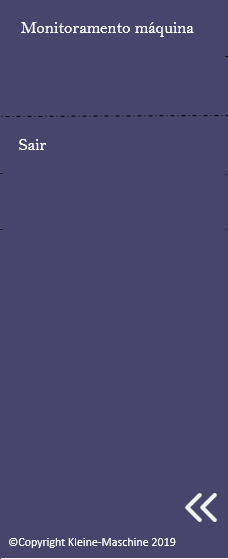
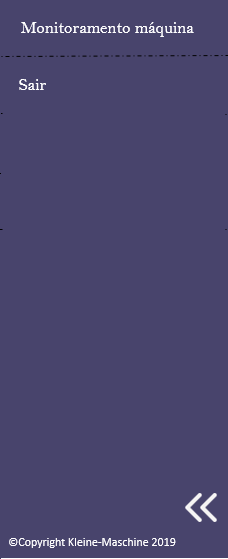
Terminou uhuuuuul é isso ai - Barbara

Changed region(s): [[0.0921, 0.1216, 0.1842, 0.1825], [0.0614, 0.2433, 0.2149, 0.2737]]

diff --git a/KleineMaschineSystem/Kleine_Maschine_Systen/src/main/java/view/Maquina.java b/KleineMaschineSystem/Kleine_Maschine_Systen/src/main/java/view/Maquina.java
@@ -86,26 +86,26 @@ public class Maquina extends JFrame {
 		esconder.setBounds(170,510,60, 80);
 		pnlFundo.add(esconder);
 		
-		
 		final JLabel btnCobrir = new JLabel("");
-		//set bounds (DISTANCIA DA DIREITA PRA ESQUERDA, DISTANCIA DE CIMA PRA BAIXO,tamanho da imagem, tamanho da imagem
+		// set bounds (DISTANCIA DA DIREITA PRA ESQUERDA, DISTANCIA DE CIMA PRA
+		// BAIXO,tamanho da imagem, tamanho da imagem
 
-		btnCobrir.setBounds(10, 4, 60, 40);	
+		btnCobrir.setBounds(10, 4, 60, 40);
 		pnlFundo.add(btnCobrir);
 		btnCobrir.setVisible(false);
-		btnCobrir.setIcon (new ImageIcon(getClass().getResource("/img/fundo - Disco.png")));
-		JLabel btnFechar = new JLabel("");
-		//set bounds (DISTANCIA DA DIREITA PRA ESQUERDA, DISTANCIA DE CIMA PRA BAIXO,tamanho da imagem, tamanho da imagem
-		btnFechar.setBounds(965, 5, 40, 40);	
-		pnlFundo.add(btnFechar);
-		
-	
-		
-		final JLabel menu = new JLabel("");
-		//set bounds (DISTANCIA DA DIREITA PRA ESQUERDA, DISTANCIA DE CIMA PRA BAIXO,tamanho da imagem, tamanho da imagem
-		menu.setBounds(2, 49, 233, 560);	
-		menu.setIcon(new ImageIcon(getClass().getResource("/img/MenuMaximizado.png")));
+		btnCobrir.setIcon(new ImageIcon(getClass().getResource("/img/002-list.png")));
                 
+		JLabel btnFechar = new JLabel("");
+		// set bounds (DISTANCIA DA DIREITA PRA ESQUERDA, DISTANCIA DE CIMA PRA
+		// BAIXO,tamanho da imagem, tamanho da imagem
+		btnFechar.setBounds(965, 5, 40, 40);
+		pnlFundo.add(btnFechar);
+
+		final JLabel menu = new JLabel("");
+		// set bounds (DISTANCIA DA DIREITA PRA ESQUERDA, DISTANCIA DE CIMA PRA
+		// BAIXO,tamanho da imagem, tamanho da imagem
+		menu.setBounds(2, 49, 233, 560);
+		menu. setIcon(new ImageIcon(getClass().getResource("/img/MenuMaximizado.png")));
 		menu.setVisible(false);
 		pnlFundo.add(menu);
 		
@@ -131,7 +131,7 @@ public class Maquina extends JFrame {
 		
 		final JLabel btnSair = new JLabel("");
 		btnSair.setVisible(true);
-		btnSair.setBounds(1, 120, 225, 52);
+		btnSair.setBounds(2, 60, 225, 52);
 		//btnSair.setBounds(1, 235, 225, 52);
 		menu.add(btnSair);
 		
@@ -145,8 +145,8 @@ public class Maquina extends JFrame {
 		btnFechar.addMouseListener((MouseListener)new MouseAdapter() {
 			
 			public void mouseClicked(MouseEvent e) {
-				Maquina relat = null;
-                                relat = new Maquina(); // TODO Auto-generated catch block
+				Login relat = null;
+                                relat = new Login(); // TODO Auto-generated catch block
 				relat.setUndecorated(true);
 				relat.setVisible(true);
 				dispose();
@@ -182,16 +182,16 @@ public class Maquina extends JFrame {
 						
 					}
 				});
-				btnMonitoramentoTransacoes.addMouseListener((MouseListener)new MouseAdapter() {
+				//btnMonitoramentoTransacoes.addMouseListener((MouseListener)new MouseAdapter() {
 					
-					public void mouseClicked(MouseEvent e) {
-						Transacoes trans = new Transacoes();
-						trans.setUndecorated(true);
-						trans.setVisible(true);
-						dispose();
+				//	public void mouseClicked(MouseEvent e) {
+				//		Transacoes trans = new Transacoes();
+				//		trans.setUndecorated(true);
+				//		trans.setVisible(true);
+				//		dispose();
 						
-					}
-				});
+				//	}
+			//	});
 				//btnRelatorio.addMouseListener((MouseListener)new MouseAdapter() {
 				
 				//public void mouseClicked(MouseEvent e) {
@@ -273,7 +273,13 @@ public class Maquina extends JFrame {
 							JOptionPane.YES_NO_OPTION, JOptionPane.QUESTION_MESSAGE, null,
 							options, options[0]);
 					if (i == JOptionPane.YES_OPTION) {
-						System.exit(0);
+                                            Login relat = null;
+                                relat = new Login(); // TODO Auto-generated catch block
+				relat.setUndecorated(true);
+				relat.setVisible(true);
+				dispose();
+
+						
 					}
 					
 	

diff --git a/KleineMaschineSystem/Kleine_Maschine_Systen/src/main/java/view/Disco.java b/KleineMaschineSystem/Kleine_Maschine_Systen/src/main/java/view/Disco.java
@@ -169,7 +169,7 @@ public class Disco extends JFrame {
 		
 		final JLabel btnSair = new JLabel("");
 		btnSair.setVisible(true);
-		btnSair.setBounds(1, 120, 225, 52);
+		btnSair.setBounds(2, 60, 225, 52);
 		//btnSair.setBounds(1, 235, 225, 52);
 		menu.add(btnSair);
 		
@@ -218,16 +218,16 @@ btnFechar.addMouseListener((MouseListener)new MouseAdapter() {
 						
 					}
 				});
-				btnMonitoramentoTransacoes.addMouseListener((MouseListener)new MouseAdapter() {
+			//btnMonitoramentoTransacoes.addMouseListener((MouseListener)new MouseAdapter() {
 					
-					public void mouseClicked(MouseEvent e) {
-						Transacoes trans = new Transacoes();
-						trans.setUndecorated(true);
-						trans.setVisible(true);
-						dispose();
+				//	public void mouseClicked(MouseEvent e) {
+				//		Transacoes trans = new Transacoes();
+				//		trans.setUndecorated(true);
+				//		trans.setVisible(true);
+				//		dispose();
 						
-					}
-				});
+				//	}
+			//	});
 				//btnRelatorio.addMouseListener((MouseListener)new MouseAdapter() {
 				
 				//public void mouseClicked(MouseEvent e) {

diff --git a/KleineMaschineSystem/Kleine_Maschine_Systen/src/main/java/view/Memoria.java b/KleineMaschineSystem/Kleine_Maschine_Systen/src/main/java/view/Memoria.java
@@ -173,7 +173,7 @@ public class Memoria extends JFrame {
 
 		final JLabel btnSair = new JLabel("");
 		btnSair.setVisible(true);
-		btnSair.setBounds(1, 120, 225, 52);
+		btnSair.setBounds(2, 60, 225, 52);
 		//btnSair.setBounds(1, 235, 225, 52);
 		menu.add(btnSair);
 
@@ -221,16 +221,16 @@ public class Memoria extends JFrame {
 
 			}
 		});
-		btnMonitoramentoTransacoes.addMouseListener((MouseListener) new MouseAdapter() {
-
-			public void mouseClicked(MouseEvent e) {
-				Transacoes trans = new Transacoes();
-				trans.setUndecorated(true);
-				trans.setVisible(true);
-				dispose();
-
-			}
-		});
+		//btnMonitoramentoTransacoes.addMouseListener((MouseListener)new MouseAdapter() {
+					
+				//	public void mouseClicked(MouseEvent e) {
+				//		Transacoes trans = new Transacoes();
+				//		trans.setUndecorated(true);
+				//		trans.setVisible(true);
+				//		dispose();
+						
+				//	}
+			//	});
 		//btnRelatorio.addMouseListener((MouseListener)new MouseAdapter() {
 		
 		//public void mouseClicked(MouseEvent e) {

diff --git a/KleineMaschineSystem/Kleine_Maschine_Systen/src/main/java/view/CPU.java b/KleineMaschineSystem/Kleine_Maschine_Systen/src/main/java/view/CPU.java
@@ -173,7 +173,7 @@ public class CPU extends JFrame {
 		
 		final JLabel btnSair = new JLabel("");
 		btnSair.setVisible(true);
-		btnSair.setBounds(1, 120, 225, 52);
+		btnSair.setBounds(2, 60, 225, 52);
 		//btnSair.setBounds(1, 235, 225, 52);
 		menu.add(btnSair);
 
@@ -221,16 +221,16 @@ public class CPU extends JFrame {
 
 			}
 		});
-		btnMonitoramentoTransacoes.addMouseListener((MouseListener) new MouseAdapter() {
-
-			public void mouseClicked(MouseEvent e) {
-				Transacoes trans = new Transacoes();
-				trans.setUndecorated(true);
-				trans.setVisible(true);
-				dispose();
-
-			}
-		});
+		//btnMonitoramentoTransacoes.addMouseListener((MouseListener)new MouseAdapter() {
+					
+				//	public void mouseClicked(MouseEvent e) {
+				//		Transacoes trans = new Transacoes();
+				//		trans.setUndecorated(true);
+				//		trans.setVisible(true);
+				//		dispose();
+						
+				//	}
+			//	});
 		//btnRelatorio.addMouseListener((MouseListener)new MouseAdapter() {
 		
 		//public void mouseClicked(MouseEvent e) {

diff --git a/KleineMaschineSystem/Kleine_Maschine_Systen/src/main/java/view/Login.java b/KleineMaschineSystem/Kleine_Maschine_Systen/src/main/java/view/Login.java
@@ -99,7 +99,7 @@ public class Login extends JFrame {
 			btnEntrar.addMouseListener((MouseListener) new MouseAdapter() {
 			 public void mouseClicked(MouseEvent e) {
 		        	 Maquina  maquina = new Maquina(); // TODO Auto-generated catch block
-					if(txtEmail.getText().equals("admin@agile.com") && txtSenha.getText().equals("123456789")){
+					if(txtEmail.getText().equals("gn@agile.com") && txtSenha.getText().equals("123456789")){
 					maquina.setUndecorated(true);	
                                             maquina.setVisible(true);  
 					}else {
